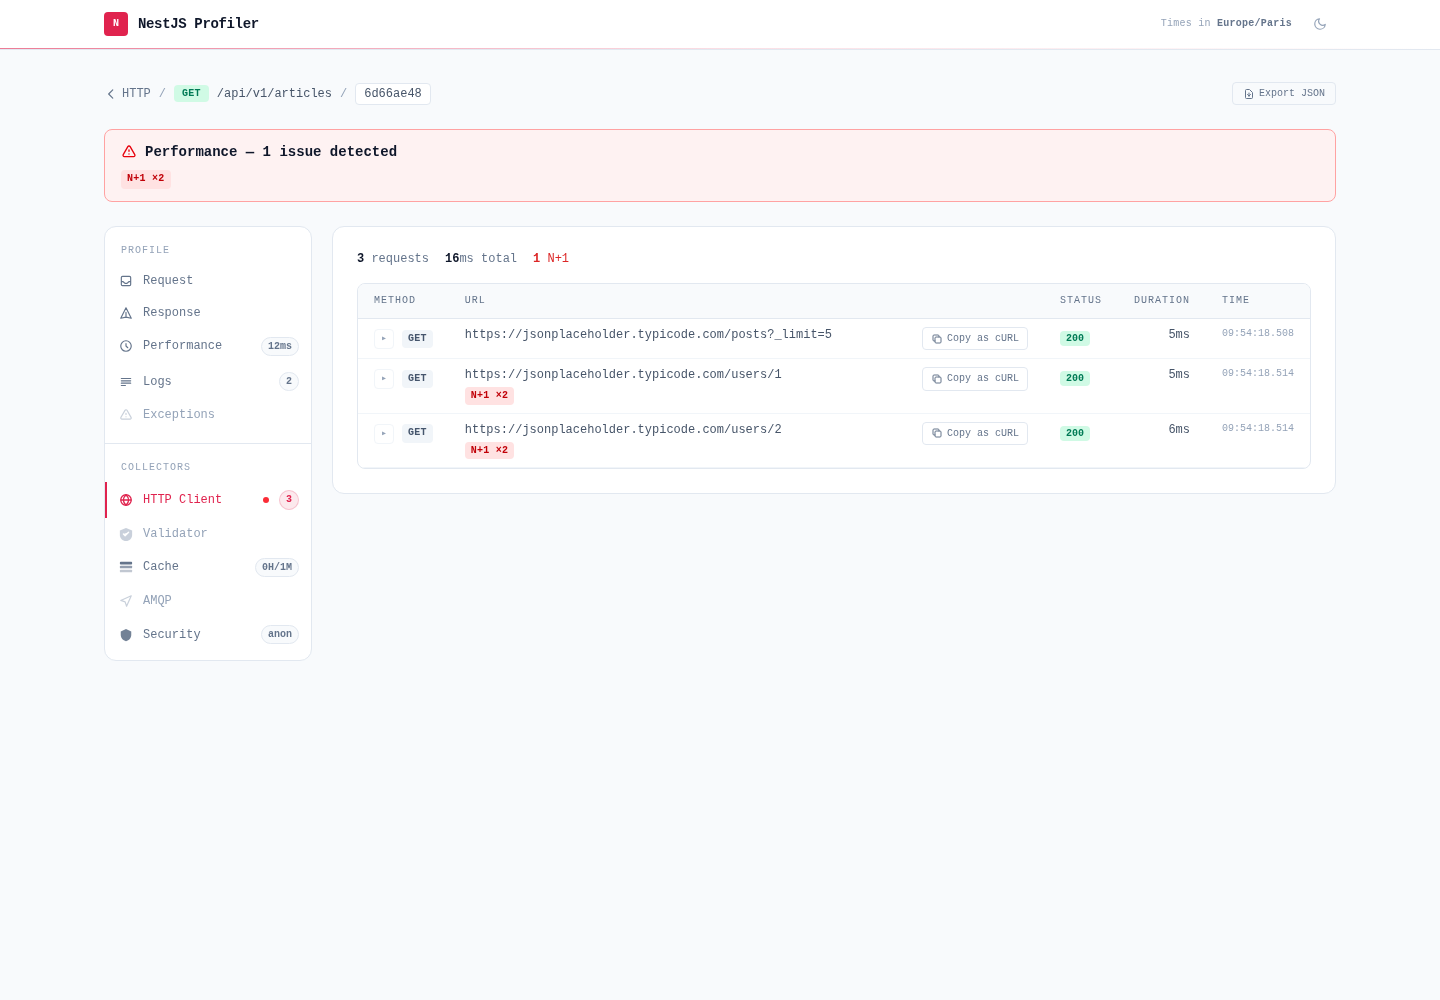
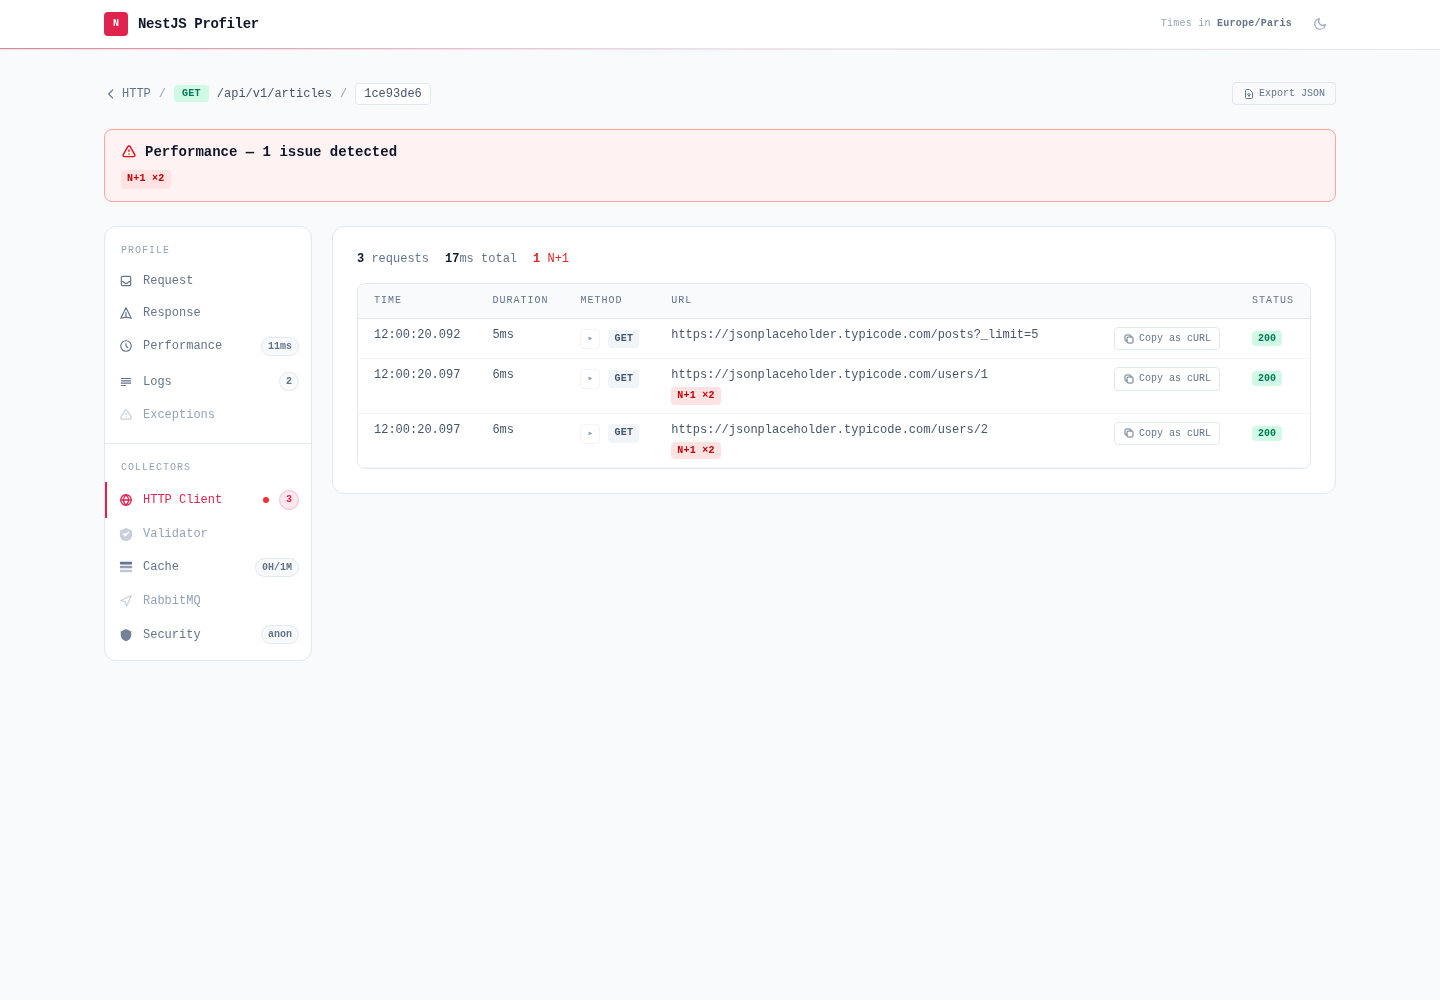
feat: lead every profiler table with time and duration and make list rows the link
- Drop the Token column from the HTTP, GraphQL, Commands and RabbitMQ lists.
- Order every list as Time, Duration, then the columns specific to its kind.
- Order the detail tables the same way: SQL, Mongoose, HTTP client, cache and the timeline.
- Name the timeline first column Time, and show a published message time before its duration.
- Left-align the duration column and give the time column the weight it has in the lists.
- Move the list link from a cell to the row itself via data-row-href plus tabindex.
- Add the row-link client behaviour: a click anywhere in a row opens its profile.
- Open a new tab on ctrl/meta and middle click, and follow a focused row on Enter.
- Ignore clicks on nested interactive elements and clicks ending a text selection.
- Follow an href only when it is a same-origin path, never javascript: or cross-origin.
- Document the convention in browsing-profiles, the template reference and the tutorial.
- Regenerate the profiler screenshots.

diff --git a/packages/nest-profiler/src/client/client.spec.ts b/packages/nest-profiler/src/client/client.spec.ts
@@ -5,6 +5,7 @@ import { TextDecoder } from 'node:util';
 import { initCopy } from './behaviors/copy';
 import { initFilters } from './behaviors/filters';
 import { initGroupTabs } from './behaviors/group-tabs';
+import { initRowLink } from './behaviors/row-link';
 import { bootTheme, initTheme } from './behaviors/theme';
 import { createRuntime } from './runtime';
 
@@ -14,6 +15,9 @@ globalThis.TextDecoder = TextDecoder as unknown as typeof globalThis.TextDecoder
 
 const api = createRuntime();
 
+// jsdom forbids stubbing `window.location`, so the row-link behaviour navigates through this.
+const navigate = jest.fn();
+
 // Behaviours attach delegated listeners on `document`; register each once so the
 // listener set is stable across tests, then drive them by mutating the DOM.
 beforeAll(() => {
@@ -21,6 +25,7 @@ beforeAll(() => {
   initCopy(api);
   initFilters(api);
   initGroupTabs(api);
+  initRowLink(api, navigate);
 });
 
 beforeEach(() => {
@@ -119,5 +124,68 @@ describe('group-tabs behaviour', () => {
     expect(panelA.classList.contains('hidden')).toBe(true);
     expect(panelB.classList.contains('hidden')).toBe(false);
     expect(tabB.classList.contains('text-nest')).toBe(true);
+  });
+});
+
+describe('row-link behaviour', () => {
+  const rowHtml =
+    '<table><tbody>' +
+    '<tr data-row-href="/_profiler/abcdef12" tabindex="0">' +
+    '<td><span data-cell>2024-01-01 12:00:00</span></td>' +
+    '<td><button data-copy="x">copy</button></td>' +
+    '</tr></tbody></table>';
+
+  const clickCell = (init: MouseEventInit = {}): void => {
+    const cell = document.querySelector('[data-cell]') as HTMLElement;
+    cell.dispatchEvent(new MouseEvent('click', { bubbles: true, cancelable: true, ...init }));
+  };
+
+  let open: jest.SpyInstance;
+
+  beforeEach(() => {
+    document.body.innerHTML = rowHtml;
+    navigate.mockClear();
+    open = jest.spyOn(window, 'open').mockImplementation(() => null);
+  });
+
+  afterEach(() => {
+    open.mockRestore();
+  });
+
+  it('opens the profile when any cell of the row is clicked', () => {
+    clickCell();
+    expect(navigate).toHaveBeenCalledWith('/_profiler/abcdef12');
+  });
+
+  it('opens the profile on Enter when the row has focus', () => {
+    const row = document.querySelector('tr') as HTMLElement;
+    row.dispatchEvent(new KeyboardEvent('keydown', { key: 'Enter', bubbles: true }));
+    expect(navigate).toHaveBeenCalledWith('/_profiler/abcdef12');
+  });
+
+  it('opens a new tab on a ctrl/meta click', () => {
+    clickCell({ metaKey: true });
+    expect(open).toHaveBeenCalledWith('/_profiler/abcdef12', '_blank', 'noopener');
+    expect(navigate).not.toHaveBeenCalled();
+  });
+
+  it('ignores a row whose href is not a same-origin path', () => {
+    for (const href of [
+      'javascript:alert(1)',
+      '//evil.example.com/x',
+      'https://evil.example.com/x',
+    ]) {
+      document.body.innerHTML = rowHtml.replace('/_profiler/abcdef12', href);
+      clickCell();
+    }
+    expect(navigate).not.toHaveBeenCalled();
+    expect(open).not.toHaveBeenCalled();
+  });
+
+  it('leaves a nested interactive element to its own handler', () => {
+    const button = document.querySelector('button') as HTMLElement;
+    button.dispatchEvent(new MouseEvent('click', { bubbles: true, cancelable: true }));
+    expect(navigate).not.toHaveBeenCalled();
+    expect(open).not.toHaveBeenCalled();
   });
 });

diff --git a/packages/nest-profiler/src/client/behaviors/row-link.ts b/packages/nest-profiler/src/client/behaviors/row-link.ts
@@ -1,0 +1,57 @@
+import type { NestProfilerApi } from '../runtime';
+
+/** Elements that own their click — the row must not hijack them. */
+const INTERACTIVE = 'a, button, input, select, textarea, label, summary';
+
+/**
+ * Whether `href` is a site-relative path of this origin, the only shape a row is allowed
+ * to navigate to. A row's href is DOM text, so it is checked before it reaches a
+ * navigation sink: the single leading slash rules out `javascript:` and protocol-relative
+ * `//host` values, and resolving against the current origin rules out the rest.
+ */
+function isSafeRowHref(href: string): boolean {
+  if (!/^\/(?!\/)/.test(href)) return false;
+  try {
+    return new URL(href, window.location.origin).origin === window.location.origin;
+  } catch {
+    return false;
+  }
+}
+
+/**
+ * Makes a list row its own link: the profile URL sits on the `<tr>` (`data-row-href`)
+ * rather than on one cell, so the whole row opens the profile — a click anywhere, or
+ * Enter when the row has focus (rows carry `tabindex="0"`, since a `<tr>` is not
+ * focusable on its own). ctrl/meta and middle clicks open a new tab; clicks on a nested
+ * interactive element, and clicks that end a text selection, are left alone.
+ *
+ * `navigate` is a parameter because jsdom forbids stubbing `window.location`, so the
+ * tests pass their own.
+ */
+export function initRowLink(
+  api: NestProfilerApi,
+  navigate: (href: string) => void = (href) => window.location.assign(href),
+): void {
+  const open = (row: HTMLElement, event: MouseEvent | KeyboardEvent): void => {
+    const href = row.getAttribute('data-row-href') ?? '';
+    if (!isSafeRowHref(href)) return;
+    const target = event.target instanceof Element ? event.target : null;
+    if (target?.closest(INTERACTIVE)) return;
+    // A click ending a drag-selection is the user copying a cell, not opening the row.
+    if (event instanceof MouseEvent && window.getSelection()?.toString()) return;
+    if (event.metaKey || event.ctrlKey || (event instanceof MouseEvent && event.button === 1)) {
+      window.open(href, '_blank', 'noopener');
+    } else {
+      navigate(href);
+    }
+  };
+
+  api.delegate('click', '[data-row-href]', open);
+  // Middle clicks never fire `click` — `auxclick` is where they land.
+  api.delegate('auxclick', '[data-row-href]', (row, event) => {
+    if (event.button === 1) open(row, event);
+  });
+  api.delegate('keydown', '[data-row-href]', (row, event) => {
+    if (event.key === 'Enter') open(row, event);
+  });
+}

diff --git a/scripts/generate-profiler-screenshots.ts b/scripts/generate-profiler-screenshots.ts
@@ -45,8 +45,8 @@ const PROFILER_URL = `${API_URL}/_profiler`;
 const PROFILER_DIR = resolve(process.env.PROFILER_DIR ?? join(API_DIR, '.profiler'));
 const OUT_DIR = resolve(process.env.OUT_DIR ?? join(REPO_ROOT, 'docs/public/screenshots/profiler'));
 const CHROME_BIN = process.env.CHROME_BIN ?? 'google-chrome';
-// The profiler styles itself with the Tailwind browser CDN, compiled at runtime,
-// so each capture must give the page enough virtual time to fetch and compile it.
+// The profiler serves its own compiled CSS and client bundles same-origin; the budget
+// gives each capture enough virtual time to fetch them and run the DOM wiring.
 const VIRTUAL_TIME_BUDGET = process.env.VIRTUAL_TIME_BUDGET ?? '12000';
 // Every screenshot is the same fixed size — never fitted/cropped to its content.
 // `--headless=new` clips to the window (it does not capture the full page), so

diff --git a/packages/nest-profiler/src/client/index.ts b/packages/nest-profiler/src/client/index.ts
@@ -4,6 +4,7 @@ import { initCopy } from './behaviors/copy';
 import { initExplain } from './behaviors/explain';
 import { initFilters } from './behaviors/filters';
 import { initGroupTabs } from './behaviors/group-tabs';
+import { initRowLink } from './behaviors/row-link';
 import { bootTheme, initTheme } from './behaviors/theme';
 import { createRuntime } from './runtime';
 
@@ -20,5 +21,6 @@ api.onReady(() => {
   initCopy(api);
   initFilters(api);
   initGroupTabs(api);
+  initRowLink(api);
   initExplain(api);
 });

diff --git a/.changeset/list-row-link.md b/.changeset/list-row-link.md
@@ -1,0 +1,15 @@
+---
+'@eleven-labs/nest-profiler': minor
+'@eleven-labs/nest-profiler-graphql': minor
+'@eleven-labs/nest-profiler-commander': minor
+'@eleven-labs/nest-profiler-rabbitmq': minor
+---
+
+Drop the Token column from every profile list, lead with Time and Duration, and make the whole row the link.
+
+- The **Token** column is gone from the HTTP, GraphQL, Commands and RabbitMQ lists: the token identifies the profile in the URL, in the `X-Debug-Token` header and on the detail page, so repeating a truncated copy on every row only pushed the columns that discriminate one execution from another out of the way.
+- Every list now opens on **Time** then **Duration** — when an execution happened and what it cost — before the columns specific to its kind.
+- The detail tables follow the same order: SQL queries, Mongoose queries, HTTP client calls, cache operations and the execution timeline all lead with Time then Duration, so a table reads the same wherever it sits.
+- The row is the link: no cell owns it any more. A new `row-link` client behaviour navigates on a click anywhere in a `[data-row-href]` row, opens a new tab on ctrl/meta or middle click, and follows a focused row on `Enter`. Nested interactive elements and clicks that end a text selection are left alone.
+- Custom list sections: put the profile URL in `data-row-href` on the `<tr>` and add `tabindex="0"` (a `<tr>` is not focusable on its own) to get the same behaviour.
+- The attribute is validated before it is followed: only a same-origin path navigates, never a `javascript:`, protocol-relative or cross-origin value.

diff --git a/packages/nest-profiler/docs/browsing-profiles.md b/packages/nest-profiler/docs/browsing-profiles.md
@@ -32,6 +32,8 @@ Every sidebar item carries a **count badge**: a list section shows its unfiltere
 
 The **process-heap trend** sits above the page title rather than inside a view: it is process-wide data, not the heap of whichever list happens to be open.
 
+Every list opens on the same two columns — **Time** then **Duration** — before the columns specific to its kind (the collector tables of a profile's detail page follow that same order), and the **row itself is the link**: clicking anywhere on it opens the profile (ctrl/cmd or middle click opens it in a new tab, `Enter` follows a focused row). The token is not a column: it identifies the profile in the URL, in the `X-Debug-Token` header and on the detail page, and repeating a truncated copy on every row only pushed the columns that discriminate one execution from another out of the way.
+
 ## Debug headers
 
 Every non-profiler request receives response headers:
